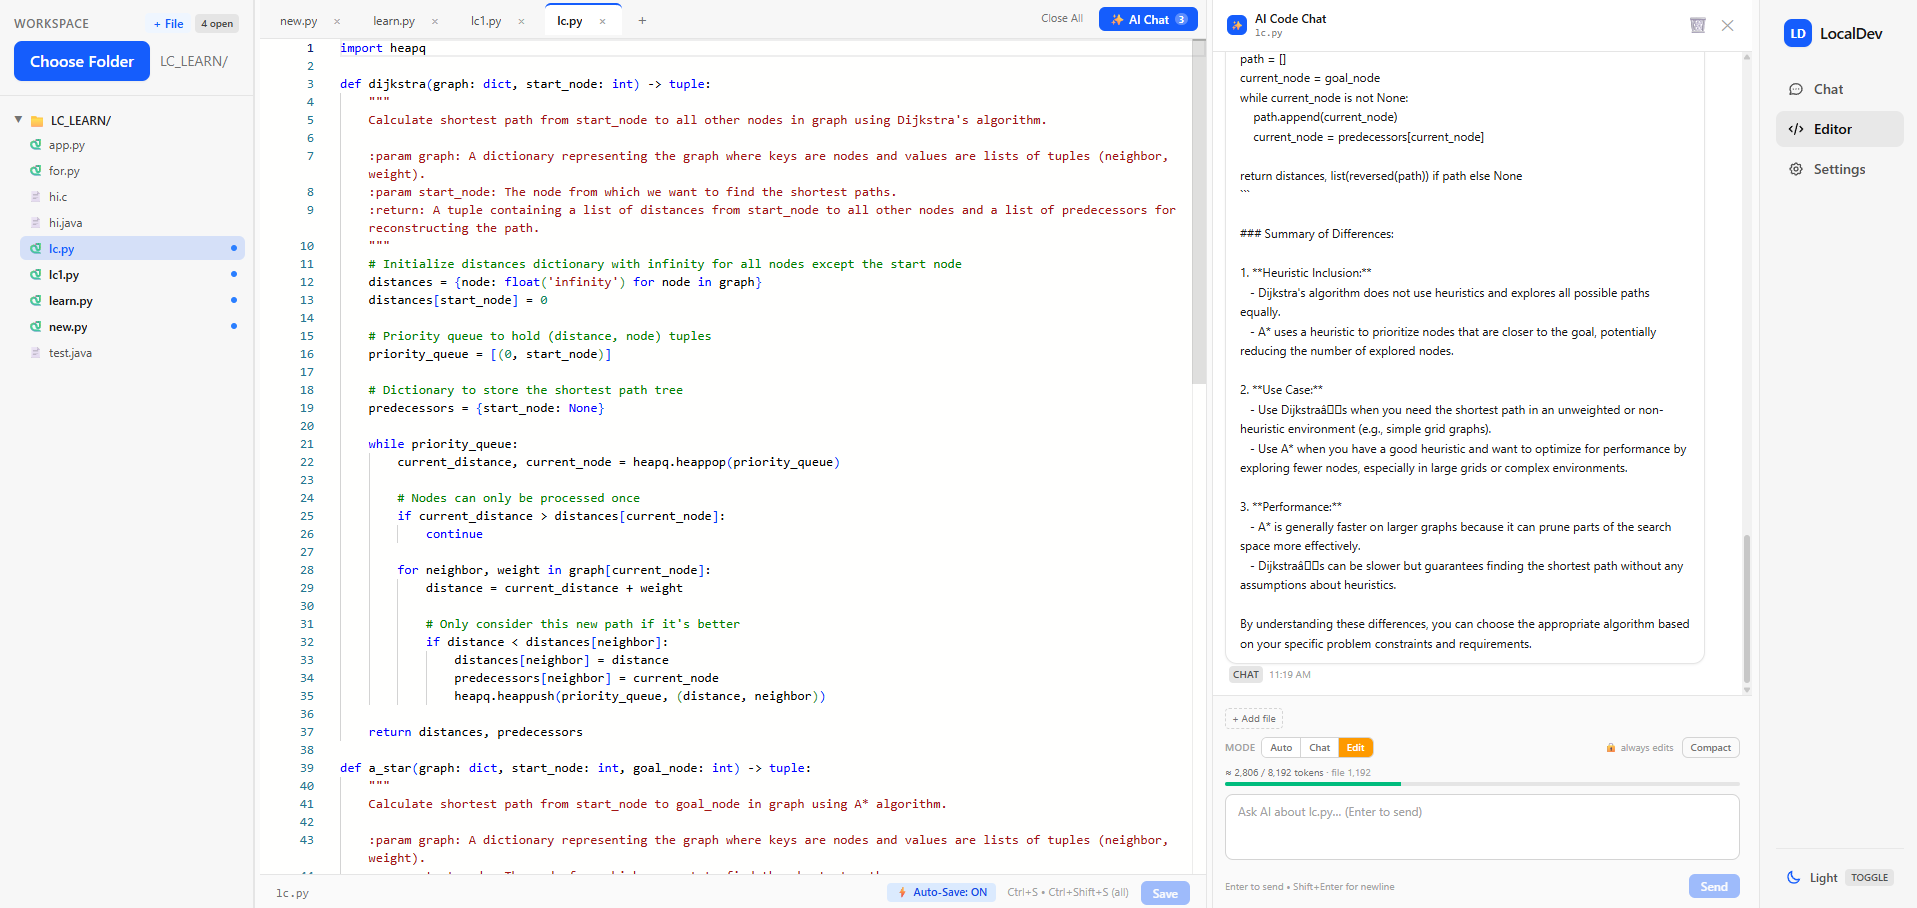
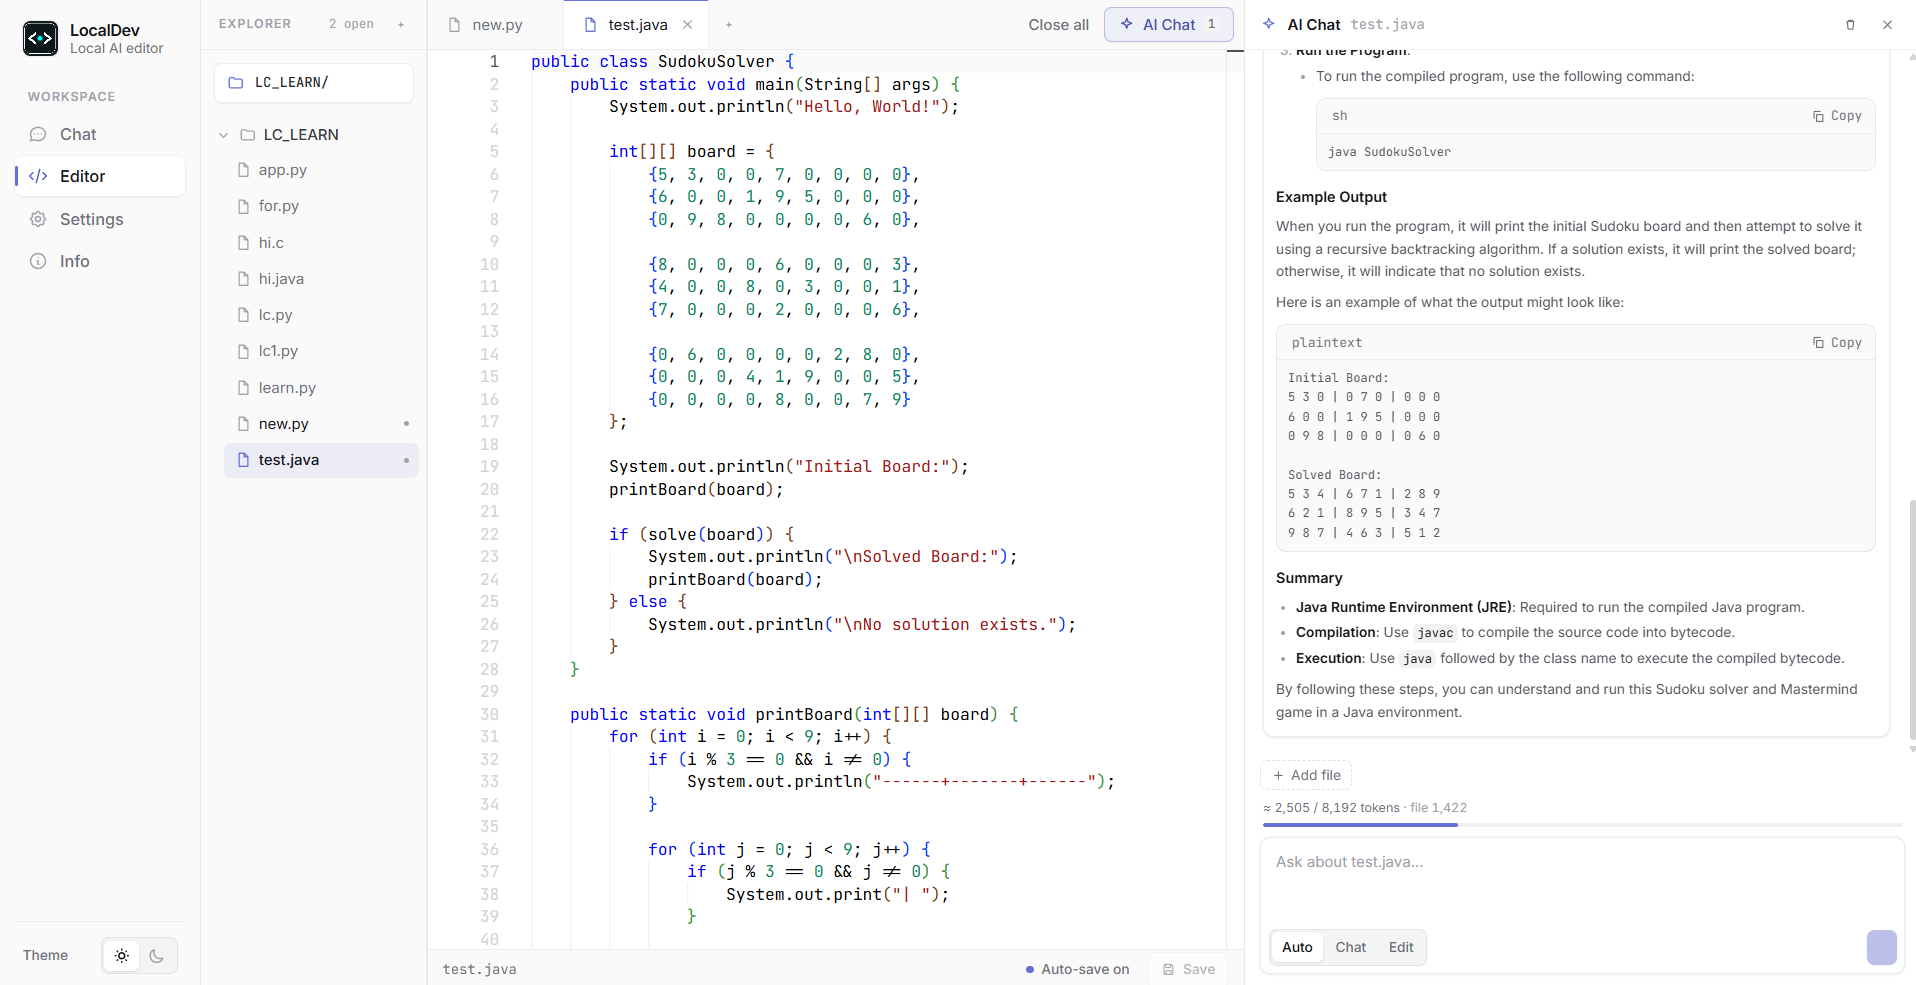
update readme + images

diff --git a/README.md b/README.md
@@ -1,15 +1,16 @@
 # LocalDev
 
-A local-first AI coding assistant — a React code editor and chat UI backed by a
-FastAPI server, talking entirely to a **local** LLM through
-[LM Studio](https://lmstudio.ai/) (tested with `qwen2.5-7b-instruct-1m`). No
-cloud API calls, no API keys, no telemetry — your code and conversations never
-leave your machine.
+A local-first AI coding assistant built around a small model: a React editor
+and chat UI in the browser, a stateless FastAPI backend, and a 7B model running
+in [LM Studio](https://lmstudio.ai/) (tested with Qwen2.5-7B-Instruct at an 8k
+context window). No cloud calls, no API keys, no telemetry. Your code never
+leaves your machine.
 
-The workspace folder is opened and read **in the browser** via the File System
-Access API. The backend is a thin, stateless wrapper around the local model; it
-never sees your files or paths — the frontend assembles everything it needs and
-sends it in the request body.
+The interesting part is that constraint. A 7B model with 8k tokens of context
+is unreliable at long context, multi-step planning, and sticking to an output
+format. Instead of prompting around that, LocalDev keeps every model call
+narrow and moves everything that needs reliability (reading files, ranking,
+applying and checking edits) into ordinary, testable code.
 
 > Full technical reference (state architecture, request lifecycle, persistence
 > map, every module's job): [`docs/architecture.md`](docs/architecture.md).
@@ -18,25 +19,47 @@ sends it in the request body.
 
 ## What it does
 
-- **Two chat surfaces.** A per-file chat pane in the editor (anchored to the
-  open buffer, auto/chat/edit modes) and a general main chat — sharing one
-  workspace folder handle, independent transcripts.
-- **Real file access from the browser.** Open a local folder, browse/edit
-  files with a Monaco editor, save straight back to disk — no upload, no
-  server-side file storage.
-- **Retrieval-augmented context (RAG).** A hand-rolled, dependency-free BM25
-  lexical index over the open workspace, built and persisted in IndexedDB.
-  Every message auto-attaches the most relevant chunks from elsewhere in the
-  project — no embeddings, no extra model call to retrieve.
-- **Context compression.** Resolved edit-mode turns collapse to a short
-  placeholder once the conversation has moved past them, so old diffs don't
-  keep eating the context budget.
-- **On-demand compaction.** A `/compact`-style button that summarizes older
-  history into one message, streamed live, with real usage stats (compression
-  ratio, tokens saved) logged automatically and shown in Settings.
-- **A calibrated token meter.** The chat's token-budget estimate is checked
-  against the model's real reported usage on every request and corrected with
-  a measured, cross-validated factor — not just guessed.
+- **Chat about your code.** A main chat (any number of chats per project) and
+  a per-file chat beside the editor. Replies stream in, render as Markdown with
+  math, and keep streaming if you switch chats or pages.
+- **Edit mode.** Ask for a change to one file and review it as a diff before
+  anything is written.
+- **Multi-file edits.** Describe a change. LocalDev picks the files, edits each
+  one in its own focused call, checks every result, and opens a diff review
+  where flagged files start unchecked and any file can be retried on its own.
+- **Real files, from the browser.** Open a local folder (File System Access
+  API), edit in Monaco, save straight to disk. The backend never sees a file
+  or a path.
+- **Retrieval (RAG).** A dependency-free BM25 index over the workspace attaches
+  the most relevant chunks to each message. No embeddings, no extra model call.
+- **Context management.** History is trimmed to a token budget, old edit replies
+  collapse to short placeholders, and a Compact button summarizes older history
+  into one message.
+
+## How it works
+
+- **The browser owns the files.** It reads the workspace, chooses context, and
+  sends everything the model needs in the request. The backend keeps no state:
+  it builds the prompt and streams the reply.
+- **One pipeline for every chat.** Every chat is a thread in one store, and
+  every turn runs through one engine: add an empty reply, build the request
+  with a pure function, stream tokens into the reply. Stop, errors, and
+  switching pages behave the same in every chat.
+- **Streaming end to end.** LM Studio streams Server-Sent Events; the backend
+  turns them into newline-delimited JSON events; the frontend reads every
+  endpoint with one shared stream reader.
+- **Multi-file edit is plan, then execute.**
+  1. BM25 plus the import graph narrows the workspace to candidate files.
+  2. A planner call sees those paths and a token-budgeted repo map (imports,
+     "used by" links, related declarations) and answers with one
+     `path :: instruction` line per file, streamed as it decides.
+  3. The browser reads only the planned files.
+  4. Each file gets its own call that also sees the full request and plan.
+     Small files are rewritten; larger ones are edited with SEARCH/REPLACE
+     blocks that apply only on an exact match, with one repair call and a
+     full-rewrite fallback.
+  5. Checks flag truncated, placeholder, shrunk, unchanged, or partly applied
+     edits before review.
 
 ## Measured results
 
@@ -71,12 +94,31 @@ a manual, on-demand action rather than automatic.
 
 ![Compaction stats panel: 20 compactions logged, 25,863 total tokens saved, mean ratio 7.34×, median ratio 6.40×](images/context-compaction-stats.png)
 
+## Project layout
+
+```
+frontend/src/
+  pages/           one component per route: Chat, Editor, Settings, Info
+  components/      UI: review modals, Markdown rendering, editor panes
+  lib/chat/        thread store, the shared turn engine, chat lists
+  lib/api/         backend calls and the shared NDJSON stream reader
+  lib/rag/         tokenizer, chunker, BM25, repo-map outlines
+  lib/multiEdit/   multi-file edit run state and planner candidates
+  lib/editor/      folder access, tabs, Monaco setup
+backend/
+  routes/          one file per feature: chat, editor_chat, multi_edit, compact, edit
+  llm.py           LM Studio streaming client
+  apply_edits.py · edit_format.py · edit_checks.py   SEARCH/REPLACE and output checks
+  tests/           pytest
+bench/             offline analysis of the token logs
+```
+
 ## Status
 
-Actively developed. Editor chat, main chat, RAG, compression, compaction, and
-calibration are built and working. A multi-file edit workflow (plan → dispatch
-→ per-file diff review, across several files at once) is designed but not yet
-implemented — see the Extension Points table in the architecture doc.
+Actively developed. Built and working: both chats, Edit and multi-file edit,
+RAG, compression, Compact, and token logging. Next: SEARCH/REPLACE for
+single-file Edit mode, then an eval harness for multi-file edit (a fixture repo
+plus scored prompts) so there are measured results for it too.
 
 ## Code availability
 
